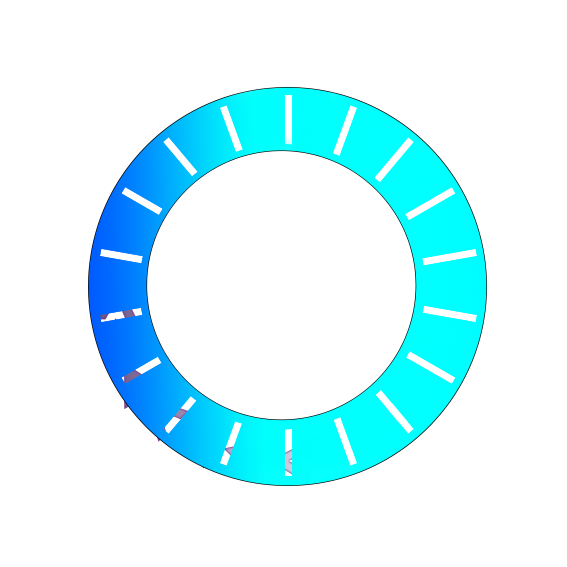
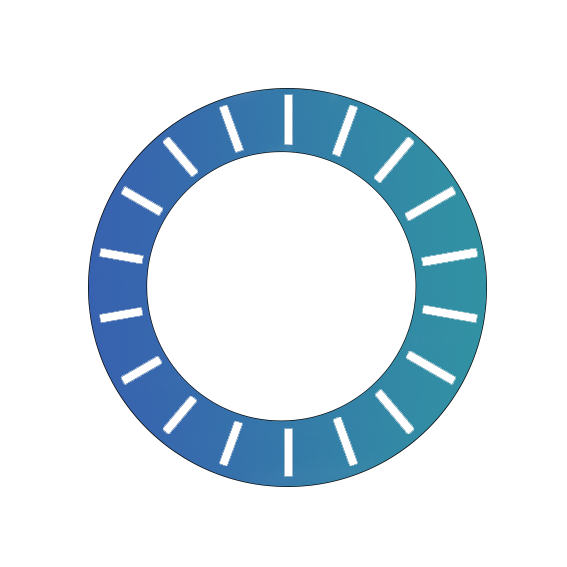
渐变

Changed region(s): [[0.1499, 0.1499, 0.8695, 0.8695]]

diff --git a/Assets/PauseUI/MeleeEnergyUI.cs b/Assets/PauseUI/MeleeEnergyUI.cs
@@ -7,13 +7,14 @@ public class MeleeEnergyUI : MonoBehaviour
 {
     public Image energySign;
     private int meleeLevel;
-    public Sprite green;
-    public Sprite blue;
-    public Sprite red;
+    private float meleeEnergy;
+    private float meleeEnergyMax;
+    private float percent;
+
     // Start is called before the first frame update
     void Start()
     {
-        
+        energySign.color = new Color32(255, 249, 117, 0);
     }
 
     // Update is called once per frame
@@ -21,14 +22,29 @@ public class MeleeEnergyUI : MonoBehaviour
     {
         Debug.Log(meleeLevel);
         meleeLevel = this.GetComponent<PlayerControl>().MeleeLevel;
-        switch (meleeLevel) {
+        meleeEnergy = this.GetComponent<PlayerControl>().MeleeEnergy;
+        meleeEnergyMax = this.GetComponent<PlayerControl>().MeleeEnergyMax;
+        percent = meleeEnergy / meleeEnergyMax;
+        switch (meleeLevel)
+        {
             case 0:
-                energySign.sprite = green;break;
+                energySign.color = new Color32(255, 249, 117, (byte)(255 * meleeEnergy / meleeEnergyMax));
+                if (meleeEnergy == meleeEnergyMax)
+                {
+                    energySign.color = new Color32(255, 249, 117, 0);
+                }
+                break;
             case 1:
-                energySign.sprite = blue;break;
+                energySign.color = new Color32(255, (byte)(249 - (249 - 45) * percent), (byte)(117 - (117 - 49) * percent), 240);
+                break;
             case 2:
-                energySign.sprite = red;break;
+                energySign.color = new Color32(255, (byte)(45 + (140 - 45) * percent), (byte)(49 + (255 - 49) * percent), 240);
+                break;
+            case 3:
+                energySign.color = new Color32(45, 140, 255, 240);
+                break;
 
         }
     }
 }
+
